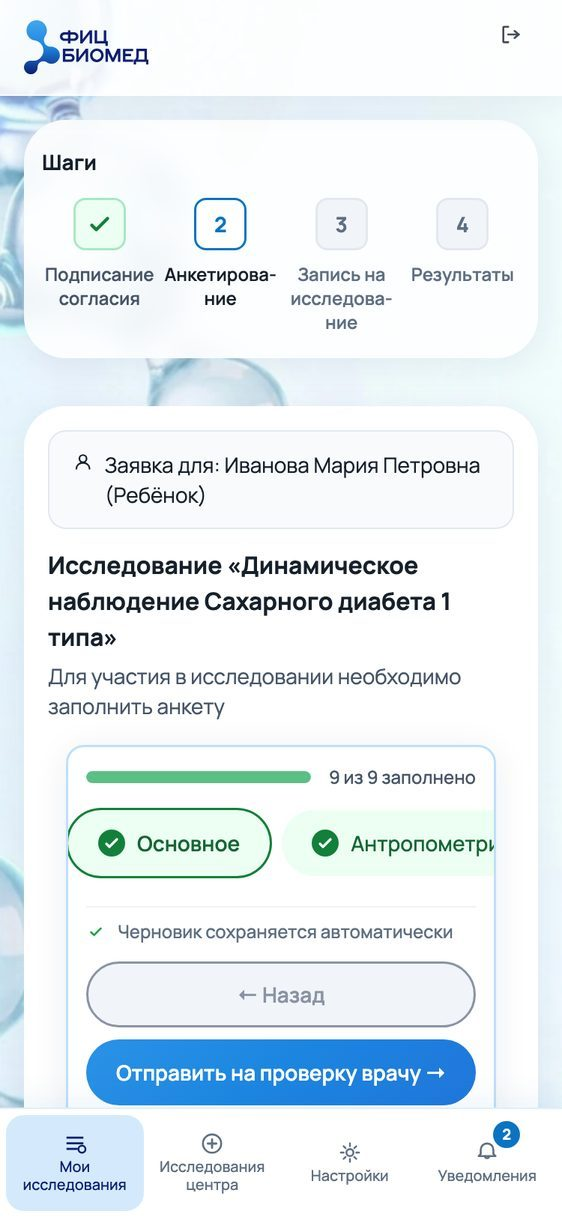
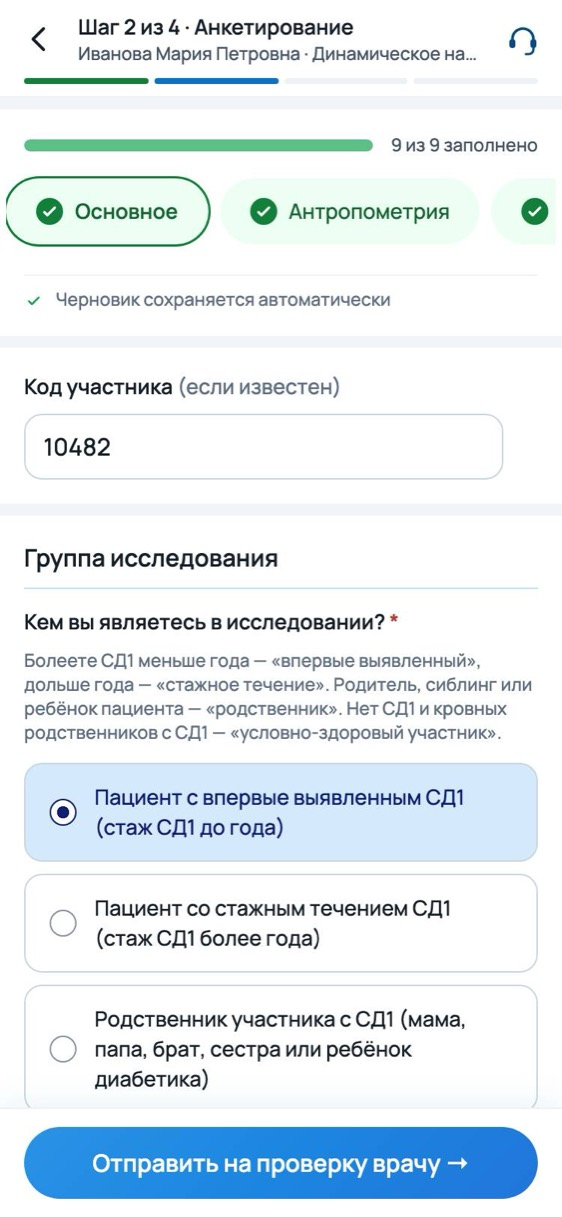
Без общего кейса ФИЦ; кабинет участника по версии 15: кадры телефона с v53, без пометок для доработки.

diff --git a/src/content/cases/participant-portal/ru.md b/src/content/cases/participant-portal/ru.md
@@ -19,7 +19,7 @@ figures:
 
 Личный кабинет медицинского центра, через который человек проходит клиническое исследование от заявки до результатов, а родитель ведёт заявки за себя и за детей. До кабинета данные собирали анкетой в Яндекс Формах, и после отправки человек ничего не узнавал о своей заявке. Я вела продукт от анализа рынка и постановки задачи до прототипа, дизайн-системы и модели эффекта.
 
-Продуктовый дизайн полного цикла · ФИЦ Биомед · 2026 · версия 13
+Продуктовый дизайн полного цикла · ФИЦ Биомед · 2026 · версия 15
 
 ---
 
@@ -55,7 +55,7 @@ figures:
 
 *Схема системы*
 
-Другие части описаны отдельными кейсами: [кабинет врача-модератора](case:doctor-portal), [станция управления аликвотами](case:aliquot-station) и [кабинет участника и станция биобанка](case:fic-overview). Интеграции между частями пока нет. Центр ещё выбирает лабораторную систему, поэтому стадии образца в прототипе переключаются вручную. Первый шаг, запись на визит и перенос кабинет участника и кабинет врача пока описывают по-разному, команде нужно свести их до разработки.
+Другие части описаны отдельными кейсами: [кабинет врача-модератора](case:doctor-portal) и [станция управления аликвотами](case:aliquot-station). Интеграции между частями пока нет. Центр ещё выбирает лабораторную систему, поэтому стадии образца в прототипе переключаются вручную. Первый шаг, запись на визит и перенос кабинет участника и кабинет врача пока описывают по-разному, команде нужно свести их до разработки.
 
 ---
 
@@ -98,7 +98,7 @@ figures:
 
 **Анкеты.** У каждого исследования своя анкета, и врачи меняют её под требования исследования. Поэтому путь заявки у всех исследований общий, а анкета, число визитов и состав отчётов задаются параметрами. Когда я сверила пути двух исследований, шаги согласия и записи совпали полностью.
 
-**Согласие и представительство.** Согласие даёт конкретный человек на конкретное исследование. Доверенности и представительство взрослых в первую версию не вошли. На тестировании интерфейса сотрудники центра рассказали, что жёны часто записывают мужей, а ещё дедушек и бабушек, хотя законными представителями они не являются. Доверенности при этом никто не проверяет, поэтому мы договорились, что другой взрослый регистрируется сам: сам заводит профиль и сам получает результаты. Один из сотрудников предложил загрузку скана бумажного согласия. Остальные были против: это чужие персональные данные, путь становится длиннее, сканы нужно хранить. Я поддержала отказ, потому что появился бы второй путь в обход основного. [УТОЧНИТЬ АКТУАЛЬНОСТЬ]
+**Согласие и представительство.** Согласие даёт конкретный человек на конкретное исследование. Доверенности и представительство взрослых в первую версию не вошли. На тестировании интерфейса сотрудники центра рассказали, что жёны часто записывают мужей, а ещё дедушек и бабушек, хотя законными представителями они не являются. Доверенности при этом никто не проверяет, поэтому мы договорились, что другой взрослый регистрируется сам: сам заводит профиль и сам получает результаты. Один из сотрудников предложил загрузку скана бумажного согласия. Остальные были против: это чужие персональные данные, путь становится длиннее, сканы нужно хранить. Я поддержала отказ, потому что появился бы второй путь в обход основного.
 
 **Единый номер пациента.** Отчёты участникам будут уходить по номеру пациента. Второй номер сломал бы рассылку. Поэтому я отказалась переводить ребёнка в собственный кабинет, когда он становится совершеннолетним.
 
@@ -213,7 +213,7 @@ figures:
 
 ### Согласие на повторных визитах
 
-Сначала согласие подписывали на каждом визите. Потом мы с командой пересмотрели решение. Теперь согласие подписывают один раз, на первом визите, и оно действует всё исследование. У повторного визита три шага вместо четырёх. При 4000 участников и четырёх повторных визитах это до 16 000 подписаний и столько же проверок врачом, которых не будет. Правило зависит от номера визита, поэтому в исследовании ВДКН оно сработает так же. [УТОЧНИТЬ АКТУАЛЬНОСТЬ]
+Сначала согласие подписывали на каждом визите. Потом мы с командой пересмотрели решение. Теперь согласие подписывают один раз, на первом визите, и оно действует всё исследование. У повторного визита три шага вместо четырёх. При 4000 участников и четырёх повторных визитах это до 16 000 подписаний и столько же проверок врачом, которых не будет. Правило зависит от номера визита, поэтому в исследовании ВДКН оно сработает так же.
 
 Анкета осталась на каждом визите. За полгода данные меняются, и врач их перепроверяет. Чтобы участник не вводил всё заново, поля заполнены ответами прошлого визита.
 
@@ -250,10 +250,10 @@ figures:
 
 Прототип я собрала в Claude и вела вместе с ИИ-ассистентом. Я ставила задачи, принимала решения и проверяла результат. Кабинет в прототипе работает целиком: семья, анкеты трёх исследований, возвраты врача, визиты и стадии образца. Решения врача и лаборатории имитирует демо-панель, на кадрах она скрыта.
 
-Каждую правку я вела отдельной версией, прежние не менялись. После правок ассистент проверял код, прогонял логику без браузера и снимал кадры, я смотрела их глазами. На телефоне список шагов становится горизонтальным, навигация уходит в нижнюю панель, кнопки встают в столбик. Разбор мобильной вёрстки нашёл 16 поломок в состояниях мастера, которые прежние проверки не открывали.
+Каждую правку я вела отдельной версией, прежние не менялись. После правок ассистент проверял код, прогонял логику без браузера и снимал кадры, я смотрела их глазами. На телефоне мастер идёт отдельным потоком: сверху панель со стрелкой назад и номером шага, главная кнопка стоит у нижнего края. Вне мастера навигация уходит в нижнюю панель. Разбор мобильной вёрстки нашёл 16 поломок в состояниях мастера, которые прежние проверки не открывали.
 
-![Анкета на телефоне: шаги горизонтально, разделы чипами, кнопки в столбик, нижний таб-бар](img/12-телефон-анкета.jpg "**Анкета на телефоне.** Шаги идут горизонтально, кнопки встают в столбик, и анкету можно заполнить одной рукой.")
-![«Мои исследования» на телефоне: чипы участников, карточка заявки и нижний таб-бар](img/13-телефон-мои-исследования.jpg "**«Мои исследования» на телефоне.** Навигация уходит в нижнюю панель, и заявки семьи остаются на одном экране.")
+![Анкета на телефоне: панель со стрелкой назад и шагом 2 из 4, разделы чипами, кнопка «Отправить на проверку врачу» у нижнего края](img/12-телефон-анкета.jpg "**Анкета на телефоне.** Сверху панель со стрелкой назад и номером шага, главная кнопка у нижнего края.")
+![«Мои исследования» на телефоне: чипы участников, карточка заявки и нижняя панель навигации](img/13-телефон-мои-исследования.jpg "**«Мои исследования» на телефоне.** Навигация уходит в нижнюю панель, и заявки семьи остаются на одном экране.")
 
 Дизайн-систему я собрала вместе с прототипом и, как и прототип, вела вместе с ИИ-ассистентом. Значения мы сняли с вёрстки прототипа. Система одна на два кабинета. На ней ассистент по моему запросу собрал кабинет врача-модератора, и новых значений придумывать не пришлось. На компонентах системы в Figma собраны флоу наблюдения при диабете для компьютера и телефона. Figma отстаёт от прототипа на правки последних версий.
 
@@ -262,8 +262,6 @@ figures:
 ## Проверка
 
 Решения я проверяла на людях. После почти каждой итерации я проводила интервью с участниками и модерируемые юзабилити-тесты прототипа, по четыре-пять интервью на итерацию. Отдельно разговаривала с врачами-модераторами и встречалась с руководителями проекта.
-
-**ДОБАВИТЬ: находки интервью и юзабилити-тестов с участниками.** Что проверяли, кто участвовал, сколько было сессий, что нашли и что после этого поменялось в интерфейсе.
 
 **Тестирование интерфейса с сотрудниками центра.** Прототип смотрели исследователи, координаторы и руководители. Правки появились в прототипе сразу после встречи.
 
@@ -333,7 +331,7 @@ figures:
 
 **Правки вида без проверки на людях.** Правки по аудитам вида я на участниках ещё не проверяла.
 
-**Вопросы для клиники и юристов.** Что происходит, когда ребёнок становится совершеннолетним. Сохраняется ли у родителя доступ к данным взрослого участника. Что делать с историей при удалении профиля. Кто в семье распоряжается общим научным отчётом. Отвечать на них сама я не стала. Все четыре я записала в реестр с вариантами ответа [ПРОВЕРИТЬ: был ли реестр отдельным документом для заказчика]. Команде дешевле обсудить их до разработки, чем переделывать после.
+**Вопросы для клиники и юристов.** Что происходит, когда ребёнок становится совершеннолетним. Сохраняется ли у родителя доступ к данным взрослого участника. Что делать с историей при удалении профиля. Кто в семье распоряжается общим научным отчётом. Отвечать на них сама я не стала. Все четыре я записала в реестр с вариантами ответа. Команде дешевле обсудить их до разработки, чем переделывать после.
 
 ---
 
@@ -351,4 +349,4 @@ figures:
 
 ---
 
-*Прототип собран в Claude на HTML, CSS и JavaScript, кадры сняты с его рабочей версии 44. Демо-панель, которая имитирует врача и лабораторию, на кадрах скрыта, данные участников вымышленные. Прототип, разборы и аудиты я делала вместе с ИИ-ассистентом Claude: ставила задачи, принимала решения и проверяла результат. Текст кейса подготовлен с помощью ИИ-ассистента по материалам проекта. Модель эффекта я считала вместе с ИИ-ассистентом, цели и допущения модели мои, ссылки на опубликованные исследования стоят рядом с цифрами.*
+*Прототип собран в Claude на HTML, CSS и JavaScript, кадры сняты с его рабочей версии 44, кадры телефона с версии 53. Демо-панель, которая имитирует врача и лабораторию, на кадрах скрыта, данные участников вымышленные. Прототип, разборы и аудиты я делала вместе с ИИ-ассистентом Claude: ставила задачи, принимала решения и проверяла результат. Текст кейса подготовлен с помощью ИИ-ассистента по материалам проекта. Модель эффекта я считала вместе с ИИ-ассистентом, цели и допущения модели мои, ссылки на опубликованные исследования стоят рядом с цифрами.*

diff --git a/src/content/cases/aliquot-station/ru.md b/src/content/cases/aliquot-station/ru.md
@@ -55,7 +55,7 @@ figures:
 
 *Схема системы*
 
-Кабинет участника и кабинет врача описаны отдельными кейсами: [кабинет участника](case:participant-portal) и [кабинет врача-модератора](case:doctor-portal). Вся система описана [в общем кейсе](case:fic-overview). Интеграции между частями пока нет, станция ведёт собственный реестр.
+Кабинет участника и кабинет врача описаны отдельными кейсами: [кабинет участника](case:participant-portal) и [кабинет врача-модератора](case:doctor-portal). Интеграции между частями пока нет, станция ведёт собственный реестр.
 
 ---
 

diff --git a/src/content/cases/doctor-portal/ru.md b/src/content/cases/doctor-portal/ru.md
@@ -56,7 +56,7 @@ figures:
 
 *Схема системы*
 
-Кабинет участника и станция аликвот описаны отдельными кейсами: [кабинет участника](case:participant-portal) и [станция аликвот](case:aliquot-station). Кабинет участника и станция вместе описаны в [общем кейсе](case:fic-overview). Интеграции между частями пока нет.
+Кабинет участника и станция аликвот описаны отдельными кейсами: [кабинет участника](case:participant-portal) и [станция аликвот](case:aliquot-station). Интеграции между частями пока нет.
 
 ---
 
